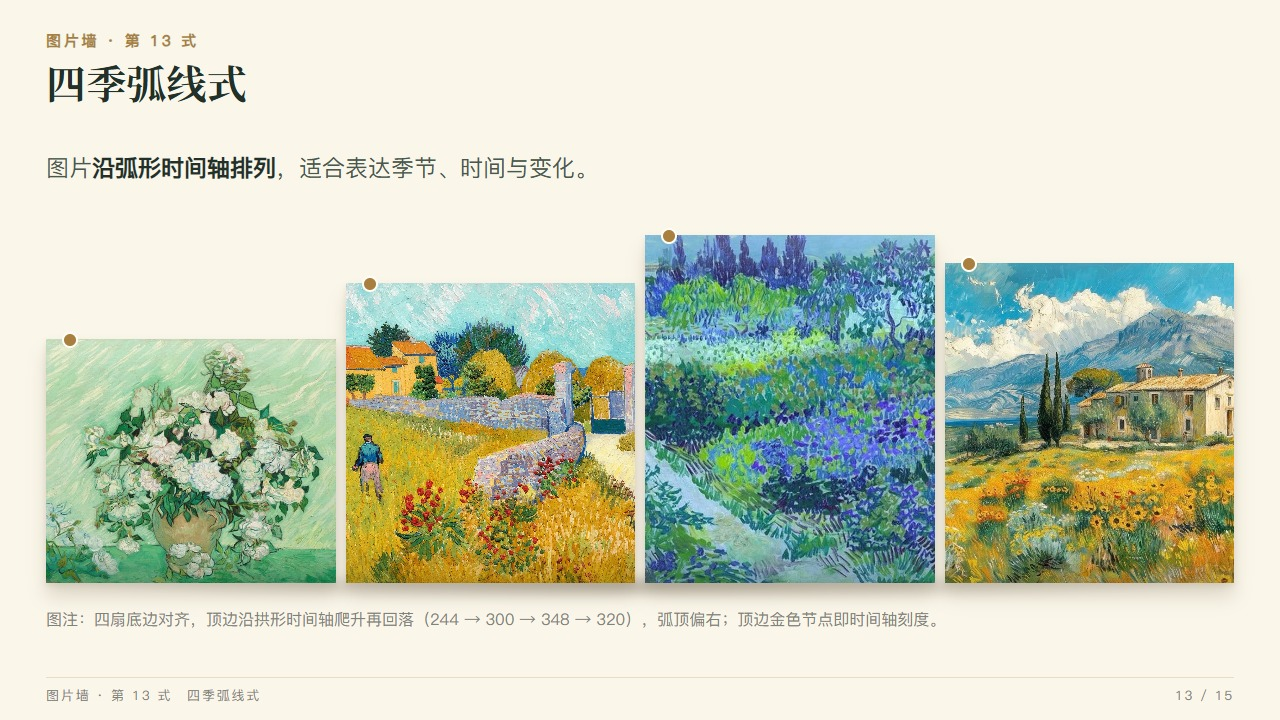
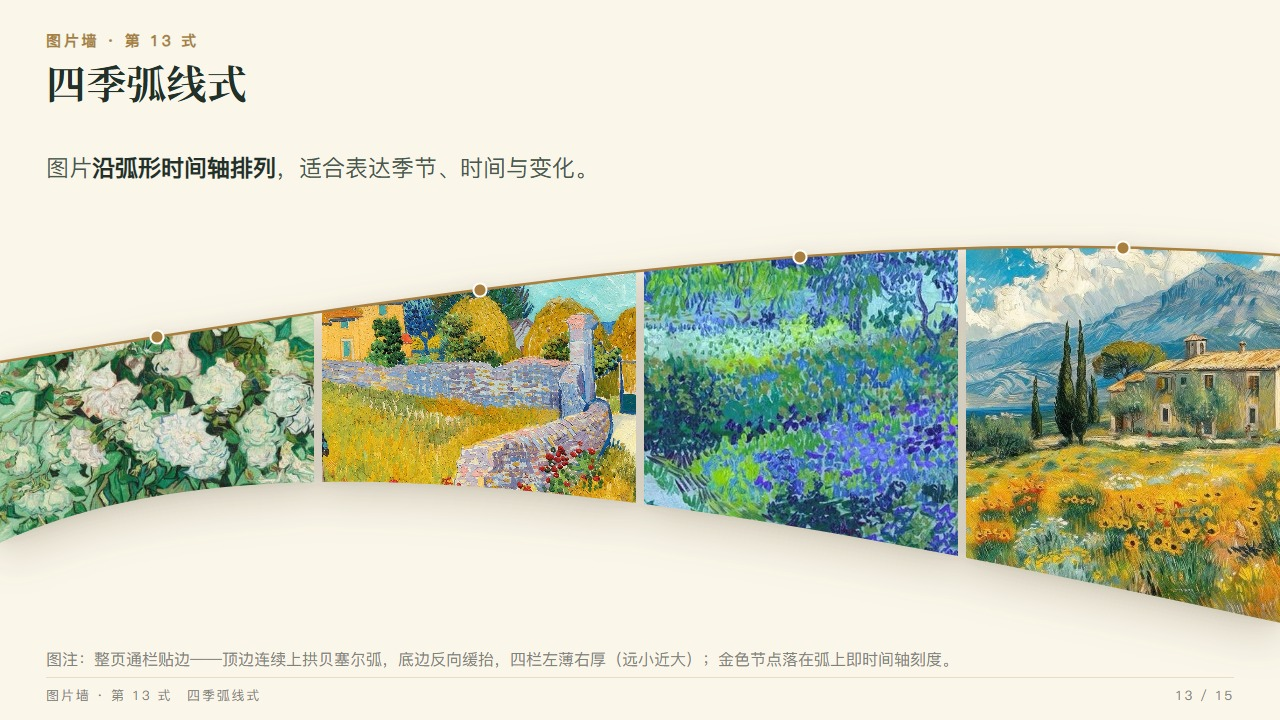
rice-paper-ppt 1.11.1：13 四季弧线式按参考图重做——四扇台阶高度废弃，改为整页通栏左右贴边 + 整面一条 clip-path:path() 贝塞尔弧（顶边连续上拱左低右高、底边反向缓抬），四栏左薄右厚远小近大；金弧线+四节点 svg.axis 叠外层

diff --git a/rice-paper-ppt/assets/theme.css b/rice-paper-ppt/assets/theme.css
@@ -690,43 +690,37 @@ em { font-style: normal; font-weight: 700; color: var(--green); }
   filter: blur(4px); pointer-events: none;
 }
 
-/* ── 13 四季弧线式：四扇底边对齐，顶边沿拱形时间轴起伏，弧顶偏右、节点钉顶边 ──────────
-   与 12 峰谷天际线的分野：那一式对称压轴、靠深色主塔收束；这一式讲「时间」，
-   弧是单向行进的——从第 1 扇爬到第 3 扇顶点、第 4 扇缓缓回落，
-   顶点不放正中（放正中就退回 12 的对称骨架了）。
-   每扇顶边左上钉一枚哑光金节点（暖白描边），读成钉在弧形时间轴上的四帧。
-   高度表 244 → 300 → 348（峰）→ 320：爬升缓、回落更缓，才有「逐季而行」的方向感。 */
+/* ── 13 四季弧线式：整页通栏、左右贴边，一条贝塞尔弧裁出「远小近大」─────────────────
+   顶边是**一条连续弧线**（贝塞尔），不是四栏各自高度的台阶：
+   左端沉到 159 → 向右爬升 → 弧顶偏右（≈x 1160 处 y≈45）→ 右端 52 微落；
+   底边一条缓弧：右端满高 420、中段抬到 ≈291、左端 340。
+   两条弧合起来把四栏照片裁成左薄右厚（左厚 ≈ 右厚的 49%），读出
+   「从左侧远小、到右侧近大」的行进纵深——这是本式的骨架本体。
+   左右出血贴纸边（同 2 式波浪的负边距模式），path 按 1280×420 写死、宽度一变就错位；
+   裁切挂内层 .cin 的 path()，投影挂外层 .w-tarc 的 drop-shadow——
+   clip 会裁掉元素自身的影子；金色弧线与四枚节点用一层 svg.axis 叠在外层
+   （放 .cin 里会被 clip 裁一半），节点圆心正好落在顶弧上，即弧形时间轴的四格刻度。
+   与 12 峰谷天际线的分野：那式对称压轴靠深色主塔；这式弧顶偏右、单向行进讲时间。 */
 .w-tarc {
   position: relative;
-  display: flex; align-items: flex-end; gap: 10px;
-  width: 100%; height: 380px; background: none;
+  width: calc(100% + var(--pad-x) * 2); margin-left: calc(var(--pad-x) * -1);
+  height: 420px; background: none;
+  filter: drop-shadow(0 16px 20px rgba(74,58,34,.20)) drop-shadow(0 3px 6px rgba(74,58,34,.10));
 }
-.w-tarc .pc {
-  position: relative; flex: 1 1 0; min-width: 0;
-  box-shadow: 0 14px 18px rgba(74,58,34,.16), 0 3px 6px rgba(74,58,34,.10);
+.w-tarc .cin {
+  display: flex; gap: 8px; width: 100%; height: 100%;
+  clip-path: path("M0 159 C522 74 892 23 1280 52 L1280 420 C697 293 261 220 0 340 Z");
 }
-.w-tarc .pc img { width: 100%; height: 100%; object-fit: cover; display: block; }
-.w-tarc .pc:nth-child(1) { height: 244px; }
-.w-tarc .pc:nth-child(2) { height: 300px; }
-.w-tarc .pc:nth-child(3) { height: 348px; }
-.w-tarc .pc:nth-child(4) { height: 320px; }
-/* 时间节点 */
-.w-tarc .pc::before {
-  content: ""; position: absolute; top: -7px; left: 16px; width: 12px; height: 12px; z-index: 2;
-  border-radius: 50%; background: var(--gold); border: 2px solid #FFFDF6;
-}
-/* 受光：共用顶亮底暗；贴地影一条整影压在底边线上 */
-.w-tarc .pc::after {
+.w-tarc .cl { position: relative; flex: 1 1 0; min-width: 0; }
+.w-tarc .cl img { width: 100%; height: 100%; object-fit: cover; display: block; }
+/* 弧形时间轴：金色细线沿顶弧走，四枚金节点钉在弧线上（圆心即弧上的点） */
+.w-tarc .axis { position: absolute; inset: 0; width: 100%; height: 100%; pointer-events: none; }
+/* 受光随弧走：顶缘补亮、底缘压暗；::after 在 .cin 内，跟着同一条 path 裁 */
+.w-tarc .cin::after {
   content: ""; position: absolute; inset: 0; pointer-events: none;
   background:
-    linear-gradient(to bottom, rgba(255,251,238,.24) 0, rgba(255,251,238,0) 16%),
-    linear-gradient(to top, rgba(34,24,12,.20) 0, rgba(34,24,12,0) 14%);
-}
-.w-tarc::before {
-  content: ""; position: absolute; left: 1%; right: 1%; bottom: -16px; height: 26px;
-  background: radial-gradient(ellipse at 50% 50%,
-    rgba(52,38,20,.30) 0, rgba(52,38,20,.10) 48%, rgba(52,38,20,0) 74%);
-  filter: blur(4px); pointer-events: none;
+    linear-gradient(to bottom, rgba(255,251,238,.20) 0, rgba(255,251,238,0) 14%),
+    linear-gradient(to top, rgba(34,24,12,.22) 0, rgba(34,24,12,0) 12%);
 }
 
 /* ── 14 弧形内凹式：整面一条 path，上缘内凹、下缘反向拱起，中腰收拢两侧舒展 ──────────
@@ -849,10 +843,11 @@ em { font-style: normal; font-weight: 700; color: var(--green); }
   .slide.on .w-arc .ai:nth-child(5) { animation-delay: .28s; }
   .slide.on .w-sky .pc { animation: wallRise .6s cubic-bezier(.22,.75,.2,1) both; }
   .slide.on .w-sky .pc.pk { animation: wallRise .75s cubic-bezier(.22,.75,.2,1) both; animation-delay: .20s; }
-  .slide.on .w-tarc .pc { animation: wallRise .6s cubic-bezier(.22,.75,.2,1) both; }
-  .slide.on .w-tarc .pc:nth-child(2) { animation-delay: .07s; }
-  .slide.on .w-tarc .pc:nth-child(3) { animation-delay: .14s; }
-  .slide.on .w-tarc .pc:nth-child(4) { animation-delay: .21s; }
+  .slide.on .w-tarc .cl { animation: wallRise .6s cubic-bezier(.22,.75,.2,1) both; }
+  .slide.on .w-tarc .cl:nth-child(2) { animation-delay: .07s; }
+  .slide.on .w-tarc .cl:nth-child(3) { animation-delay: .14s; }
+  .slide.on .w-tarc .cl:nth-child(4) { animation-delay: .21s; }
+  .slide.on .w-tarc .axis { animation: wallFade .5s ease-out .28s both; }
   .slide.on .w-conc .cl { animation: wallRise .6s cubic-bezier(.22,.75,.2,1) both; }
   .slide.on .w-conc .cl:nth-child(2) { animation-delay: .08s; }
   .slide.on .w-conc .cl:nth-child(3) { animation-delay: .16s; }
@@ -868,7 +863,8 @@ em { font-style: normal; font-weight: 700; color: var(--green); }
 .fx-js .slide.on .w-fan img,
 .fx-js .slide.on .w-coil,
 .fx-js .slide.on .w-sky .pc,
-.fx-js .slide.on .w-tarc .pc,
+.fx-js .slide.on .w-tarc .cl,
+.fx-js .slide.on .w-tarc .axis,
 .fx-js .slide.on .w-conc .cl,
 .fx-js .slide.on .w-sec,
 .fx-js .slide.on .w-sec .sd img,

diff --git a/rice-paper-ppt/examples/wall-tarc.html b/rice-paper-ppt/examples/wall-tarc.html
@@ -11,11 +11,12 @@
   <div class="pbar"></div>
   <div id="deck">
 
-    <!-- 13 四季弧线式：四扇底边对齐（align-items:flex-end），顶边沿拱形时间轴起伏——
-         高度表 244 → 300 → 348（峰，偏右不放正中）→ 320，爬升缓、回落更缓。
-         每扇顶边左上一枚哑光金节点（暖白描边），读成钉在弧形时间轴上的四帧。
-         与 12 峰谷天际线的分野：那式对称压轴靠深色主塔，这式单向行进讲时间。
-         动画：四扇沿时间轴从左到右逐扇浮起。 -->
+    <!-- 13 四季弧线式：整页通栏、左右贴边出血——一条贝塞尔弧裁出「远小近大」：
+         顶边一条连续上拱弧线（左端沉 159 → 弧顶偏右 y≈45 → 右端 52 微落），
+         底边一条缓弧（右端满高 420、中段抬 ≈291、左端 340），
+         四栏照片被裁成左薄右厚（左厚 ≈ 右厚的 49%）——左侧远小、右侧近大。
+         金色弧线 + 四枚节点叠在外层 svg.axis（viewBox 1280×420），圆心落在顶弧上。
+         动画：四栏沿弧从左到右逐栏浮起，时间轴最后淡入。 -->
     <section class="slide on">
       <div class="sh">
         <div class="kick">图片墙 · 第 13 式</div>
@@ -24,12 +25,21 @@
       <div class="sb">
         <p class="lead">图片<b>沿弧形时间轴排列</b>，适合表达季节、时间与变化。</p>
         <div class="wall w-tarc">
-          <div class="pc"><img src="img/vg6.jpg" alt=""></div>
-          <div class="pc"><img src="img/vg2.jpg" alt=""></div>
-          <div class="pc"><img src="img/vg3.jpg" alt=""></div>
-          <div class="pc"><img src="img/vg5.jpg" alt=""></div>
+          <div class="cin">
+            <div class="cl"><img src="img/vg6.jpg" alt=""></div>
+            <div class="cl"><img src="img/vg2.jpg" alt=""></div>
+            <div class="cl"><img src="img/vg3.jpg" alt=""></div>
+            <div class="cl"><img src="img/vg5.jpg" alt=""></div>
+          </div>
+          <svg class="axis" viewBox="0 0 1280 420" preserveAspectRatio="none" aria-hidden="true">
+            <path d="M0 159 C522 74 892 23 1280 52" fill="none" stroke="#A87F3F" stroke-width="2.5"/>
+            <circle cx="157" cy="134" r="6.5" fill="#A87F3F" stroke="#FFFDF6" stroke-width="2"/>
+            <circle cx="480" cy="87" r="6.5" fill="#A87F3F" stroke="#FFFDF6" stroke-width="2"/>
+            <circle cx="800" cy="54" r="6.5" fill="#A87F3F" stroke="#FFFDF6" stroke-width="2"/>
+            <circle cx="1123" cy="45" r="6.5" fill="#A87F3F" stroke="#FFFDF6" stroke-width="2"/>
+          </svg>
         </div>
-        <div class="figcap">图注：四扇底边对齐，顶边沿拱形时间轴爬升再回落（244 → 300 → 348 → 320），弧顶偏右；顶边金色节点即时间轴刻度。</div>
+        <div class="figcap">图注：整页通栏贴边——顶边连续上拱贝塞尔弧，底边反向缓抬，四栏左薄右厚（远小近大）；金色节点落在弧上即时间轴刻度。</div>
       </div>
       <div class="foot"><span>图片墙 · 第 13 式　四季弧线式</span><span>13 / 15</span></div>
     </section>

diff --git a/rice-paper-ppt/SKILL.md b/rice-paper-ppt/SKILL.md
@@ -1,7 +1,7 @@
 ---
 name: rice-paper-ppt
-version: 1.11.0
-description: 制作或改版「米纸质感」风格的 HTML 幻灯片时使用：1280×720 单页文件式 deck，暖米纸底 + 深林绿 + 哑光金的中式编辑版式，衬线大标题、投影级字号（正文不低于 20px，表格/代码不低于 18px），自带 theme.css 版式系统、6 页可运行骨架、十五种版式配方（含多图排版的图片墙十五式：1 齐边错落式 / 2 波浪贯通式 / 3 纵深渐进式 / 4 不对称叶片式 / 5 螺旋长卷式——内联 SVG 逐块裁形填图，整页通栏与内容页两种落位 / 6 半圆扇面式——扇骨即放射接缝 / 7 弧形切幅式——上缘左低右高单向抬起 / 8 矩阵网格式——5×3 十五格卷成圆柱面（棱柱面法：translateZ(-R) rotateY(φ) translateZ(R)，五列叠容器中点） / 9 折页长卷式与 10–11 弧幕连屏式（外弧、内弧）——共边梯形不用逐片旋转 / 12 峰谷天际线式——九扇底边对齐、高度对称起伏成峰谷，正中一扇深色主塔拔起压轴（.pk 压暗做全页锚点） / 13 四季弧线式——四扇底边对齐沿拱形时间轴爬升回落、顶边金色节点即时间轴刻度 / 14 弧形内凹式——上下缘反向弧线、中腰收拢两侧舒展 / 15 斜切折页式——六扇竖幅底边两段斜切向中央折脊收拢、中脊下漏斗托图注，曲线用 clip-path path、纵深用 perspective+rotateY、立体靠暖白拼缝、沿轮廓投影与受光差，2 / 4 的曲线按参考图逐列量得再转贝塞尔，4 左端下缘单调收束不留尖钩）、可选增强层 fx.js（无 GSAP 时自动退回纯 CSS，有 GSAP 时接管编排，并留出 WebGL / Canvas 的注册接口）与 Playwright 逐页版式审计脚本；视觉与文案双层规范、文案分语言与信息结构两份：版式层固定页码「当前/总页」、章节首页徽记（印章圆环 + 单色线稿）、视频暂停与进度条控件，文案层按 copywriting-spec.md 约束标题、句式、术语与标点，按 content-structure-spec.md 约束专业术语提炼、信息层级重构、内容压缩、章节封面定位与信息可视化，消除机械化对比句式、口语化引导语、模糊代称和空泛营销表达。适用于汇报、路演、方案宣讲、培训、分享会、文化展陈、课程等任何需要大屏投影且讲究纸感的场合，也适用于把已有同类 HTML 幻灯片按这套规范重构（放大字号、消除空旷、修溢出、重排层级、规范文案语言、给一组图排成整墙）；图片个数一维另有一张速查表——一页放几张图就查 references/image-count-layouts.md（1–10 张与超多图各有首选骨架与适配主题，与十五式「关系母题」互相校验）。触发词：米纸风 PPT、中式学术风幻灯片、纸感 deck、把这份 PPT 改成米纸风格、HTML 幻灯片改版、放大字号、排得专业点、PPT 文案规范化、PPT 文案精炼、信息结构化、专业术语提炼、去掉模糊代称、章节封面精简、多图排版、几张图怎么排、一张图 / 两张图 / N 张图怎么排、这个数量怎么摆、图片墙、图片错落排布、去掉 AI 味。
+version: 1.11.1
+description: 制作或改版「米纸质感」风格的 HTML 幻灯片时使用：1280×720 单页文件式 deck，暖米纸底 + 深林绿 + 哑光金的中式编辑版式，衬线大标题、投影级字号（正文不低于 20px，表格/代码不低于 18px），自带 theme.css 版式系统、6 页可运行骨架、十五种版式配方（含多图排版的图片墙十五式：1 齐边错落式 / 2 波浪贯通式 / 3 纵深渐进式 / 4 不对称叶片式 / 5 螺旋长卷式——内联 SVG 逐块裁形填图，整页通栏与内容页两种落位 / 6 半圆扇面式——扇骨即放射接缝 / 7 弧形切幅式——上缘左低右高单向抬起 / 8 矩阵网格式——5×3 十五格卷成圆柱面（棱柱面法：translateZ(-R) rotateY(φ) translateZ(R)，五列叠容器中点） / 9 折页长卷式与 10–11 弧幕连屏式（外弧、内弧）——共边梯形不用逐片旋转 / 12 峰谷天际线式——九扇底边对齐、高度对称起伏成峰谷，正中一扇深色主塔拔起压轴（.pk 压暗做全页锚点） / 13 四季弧线式——整页通栏左右贴边，整面一条贝塞尔弧裁出「远小近大」：顶边连续上拱左低右高、底边反向缓抬、四栏左薄右厚，金节点落在弧线上即时间轴刻度 / 14 弧形内凹式——上下缘反向弧线、中腰收拢两侧舒展 / 15 斜切折页式——六扇竖幅底边两段斜切向中央折脊收拢、中脊下漏斗托图注，曲线用 clip-path path、纵深用 perspective+rotateY、立体靠暖白拼缝、沿轮廓投影与受光差，2 / 4 的曲线按参考图逐列量得再转贝塞尔，4 左端下缘单调收束不留尖钩）、可选增强层 fx.js（无 GSAP 时自动退回纯 CSS，有 GSAP 时接管编排，并留出 WebGL / Canvas 的注册接口）与 Playwright 逐页版式审计脚本；视觉与文案双层规范、文案分语言与信息结构两份：版式层固定页码「当前/总页」、章节首页徽记（印章圆环 + 单色线稿）、视频暂停与进度条控件，文案层按 copywriting-spec.md 约束标题、句式、术语与标点，按 content-structure-spec.md 约束专业术语提炼、信息层级重构、内容压缩、章节封面定位与信息可视化，消除机械化对比句式、口语化引导语、模糊代称和空泛营销表达。适用于汇报、路演、方案宣讲、培训、分享会、文化展陈、课程等任何需要大屏投影且讲究纸感的场合，也适用于把已有同类 HTML 幻灯片按这套规范重构（放大字号、消除空旷、修溢出、重排层级、规范文案语言、给一组图排成整墙）；图片个数一维另有一张速查表——一页放几张图就查 references/image-count-layouts.md（1–10 张与超多图各有首选骨架与适配主题，与十五式「关系母题」互相校验）。触发词：米纸风 PPT、中式学术风幻灯片、纸感 deck、把这份 PPT 改成米纸风格、HTML 幻灯片改版、放大字号、排得专业点、PPT 文案规范化、PPT 文案精炼、信息结构化、专业术语提炼、去掉模糊代称、章节封面精简、多图排版、几张图怎么排、一张图 / 两张图 / N 张图怎么排、这个数量怎么摆、图片墙、图片错落排布、去掉 AI 味。
 license: MIT
 ---
 
@@ -113,7 +113,7 @@ cp -r rice-paper-ppt ~/.claude/skills/
 | 分部分 | 章节分隔（深绿章板） | 底色加重 + 超大编号 + 大标题 + 3 条要点 + 一句格言 + **本章徽记** |
 | 讲一个案例 | 图文分栏 | 图占 45–65%，文字只留 3 条结论 |
 | 两案对照 | 双栏并列 | 等宽两列 + 一条 `.bar` 收束 |
-| 并置一组图 | 图片墙十五式 + 个数速查表 | 十五式按关系定母题：1 齐边错落（4–5 张）/ 2 波浪贯通（4）/ 3 纵深渐进（8）/ 4 不对称叶片（4–5）/ 5 螺旋长卷（7 块，通栏与内容页两种落位）/ 6 半圆扇面（4）/ 7 弧形切幅（4）/ 8 矩阵网格（5×3 十五格圆柱面）/ 9 折页长卷（4）/ 10–11 弧幕连屏（4–5，外弧内弧）/ 12 峰谷天际线（9 扇，主塔压轴）/ 13 四季弧线（4 扇，时间轴）/ 14 弧形内凹（3 栏，双向弧）/ 15 斜切折页（6 幅，中脊漏斗）；1–3 张与超 10 张不在其区间，按 `references/image-count-layouts.md` 的个数骨架排。文字只留一条标题带。各式 16:9 整页实拍 `examples/wall-stagger|wave|depth|fan|coil|sec|crest|grid|fold|arc|arc-inner|sky|tarc|conc|tilt.jpg` |
+| 并置一组图 | 图片墙十五式 + 个数速查表 | 十五式按关系定母题：1 齐边错落（4–5 张）/ 2 波浪贯通（4）/ 3 纵深渐进（8）/ 4 不对称叶片（4–5）/ 5 螺旋长卷（7 块，通栏与内容页两种落位）/ 6 半圆扇面（4）/ 7 弧形切幅（4）/ 8 矩阵网格（5×3 十五格圆柱面）/ 9 折页长卷（4）/ 10–11 弧幕连屏（4–5，外弧内弧）/ 12 峰谷天际线（9 扇，主塔压轴）/ 13 四季弧线（4 栏，贝塞尔弧时间轴）/ 14 弧形内凹（3 栏，双向弧）/ 15 斜切折页（6 幅，中脊漏斗）；1–3 张与超 10 张不在其区间，按 `references/image-count-layouts.md` 的个数骨架排。文字只留一条标题带。各式 16:9 整页实拍 `examples/wall-stagger|wave|depth|fan|coil|sec|crest|grid|fold|arc|arc-inner|sky|tarc|conc|tilt.jpg` |
 | 比参数 / 比方案 | 表格 | 4–7 行；7 行以上用 `.tbl.tight` |
 | 展示一段原文 | 引文框 | `pbox` + 结果图 + 高亮本次新增部分 |
 | 讲步骤 | 横向流程 | 4 节点 + 旁注 + `.bar` |

diff --git a/rice-paper-ppt/references/page-patterns.md b/rice-paper-ppt/references/page-patterns.md
@@ -205,7 +205,7 @@ SVG 的 presentation attribute 不吃 `var()`，所以别在图标里写 `var(--
 | 10 弧幕连屏式 | 竖幅沿外弧连续排列，端片放大 | 环幕、连续、包围 | 4–5 | 左右出血 15px | 图下居中标题带 |
 | 11 弧幕连屏式（内弧） | 同 10 反向，中段鼓起 | 聚焦、收拢 | 4 | 同 10 | 同 10 |
 | 12 峰谷天际线式 | 九扇底边对齐，高度对称起伏，主塔压暗压轴 | 压轴、锚点、收束 | 9（7–9） | 内容区内居中 | 图上导语 + 图下一行图注 |
-| 13 四季弧线式 | 四扇底边对齐，顶边沿拱形时间轴爬升回落、顶边金节点 | 时间、季节、行进 | 4 | 内容区内，四扇等宽 | 图下居中标题带 |
+| 13 四季弧线式 | 整面贝塞尔弧：顶边连续上拱左低右高、底边反向缓抬，四栏左薄右厚（远小近大）、金节点钉弧线 | 时间、季节、行进 | 4 | 内容区内，四栏等宽 | 图下居中标题带 |
 | 14 弧形内凹式 | 上缘内凹下沉、下缘反向拱起，中腰收拢 | 柔和收放、层次、分栏 | 3（3–5 栏） | 内容区内，三栏等宽 | 图下居中标题带 |
 | 15 斜切折页式 | 六扇竖幅底边两段斜切向中央折脊收拢，中脊下漏斗托图注 | 展开、收拢、聚焦 | 6 | 内容区内 | 图注坐漏斗中 |
 
@@ -499,15 +499,21 @@ SVG 的 presentation attribute 不吃 `var()`，所以别在图标里写 `var(--
 > 图片沿弧形时间轴排列，适合表达季节、时间与变化。
 
 
-**四扇底边对齐，顶边沿拱形时间轴爬升再回落，弧顶偏右；每扇顶边一枚金色节点即时间轴刻度。**
+**整面一条 `clip-path: path()` 贝塞尔弧裁出「远小近大」：顶边一条连续上拱弧线，底边一条反向缓弧，四栏被裁成左薄右厚。**
 
-- **与 12 峰谷天际线的分野**：那一式对称压轴、靠深色主塔收束；这一式讲「时间」，
-  弧是单向行进的——顶点放在第 3 扇、不放正中，放正中就退回 12 的对称骨架。
-- 高度表 244 → 300 → 348（峰）→ 320：爬升缓、回落更缓，才有「逐季而行」的方向感；
-  换扇数按「缓升—顶点—缓降」重排，别把顶点挪回中央。
-- 节点圆点（`var(--gold)`、暖白 2px 描边）钉在各扇顶边左上、`top:-7px` 骑在边上；
-  扇数变了节点跟着走，漏了节点就只剩「高矮不一的四张图」。
-- 底边对齐 `align-items: flex-end`、等宽 `flex: 1 1 0`、缝 10px；贴地影一条整影（平铺无裁切可用伪元素）。
+- **顶边是一条连续弧线、不是台阶**：左端沉（y 159）→ 向右爬升 → 弧顶偏右（≈x 940 处 y≈45）
+  → 右端微落（52）。四栏各自独立高度拼出来的是折线台阶，读不出「弧」——必须整面一条 path。
+- **底边反向缓弧**：右端满高 420、中段抬到 ≈291、左端 340。两条弧合起来，
+  照片可见厚度左 ≈181、右 ≈368（左约为右的 49%）——「从左侧远小、到右侧近大」的行进纵深。
+- **整页通栏、左右贴边**（同 2 式波浪的负边距模式：`width: calc(100% + var(--pad-x)*2);
+  margin-left: calc(var(--pad-x)*-1)`），path 按 1280×420 写死、宽度一变就错位。
+- 结构与 14 式同族：裁切挂内层 `.cin` 的 path()，
+  投影挂外层 `.w-tarc` 的 `drop-shadow`——clip 会裁掉元素自身的影子；
+  `::after` 写在 `.cin` 里跟着同一条 path 裁。
+- **弧形时间轴与节点**：金色细线沿顶弧走 + 四枚金节点（暖白 2px 描边），
+  叠在外层 `svg.axis`（viewBox 1280×420；放 `.cin` 里会被 clip 裁一半），节点圆心正好落在顶弧上；
+  栏数变了节点跟弧线重算，漏了节点就只剩「左薄右厚的四张图」。
+- 四栏等宽 `flex: 1 1 0`、缝 8px；白缝随弧线贯通。
 - 用于季度复盘、历程回顾、时间线叙事：四帧之间要有先后语义，纯并列内容用 1 式。
 
 ### 14 弧形内凹式
@@ -541,7 +547,7 @@ SVG 的 presentation attribute 不吃 `var()`，所以别在图标里写 `var(--
 
 ### 十五式通用规则
 
-1. **图数**：1 取 4–5、2 取 4、3 取 8、4 取 4–5、5 取 7 块（5–7 张图，不够就相邻重复）、6 取 4 片、7 取 4 张、8 取 15 格（5×3，图不够相邻重复）、9 取 4 片、10 / 11 取 4–5 片、12 取 9 扇（7–9，高度表按对称重排）、13 取 4 扇（顶点偏右）、14 取 3 栏（3–5）、15 取 6 幅（中脊居中）。三张以下与十张以上不在十五式的覆盖区间——按**个数速查表**（`image-count-layouts.md`）的骨架排：1–3 张走大图独占 / 对分 / 竖塔三叠，超 10 张走矩阵网格或拆页（`.tbl` 索引加两张代表图）。
+1. **图数**：1 取 4–5、2 取 4、3 取 8、4 取 4–5、5 取 7 块（5–7 张图，不够就相邻重复）、6 取 4 片、7 取 4 张、8 取 15 格（5×3，图不够相邻重复）、9 取 4 片、10 / 11 取 4–5 片、12 取 9 扇（7–9，高度表按对称重排）、13 取 4 栏（顶弧偏右）、14 取 3 栏（3–5）、15 取 6 幅（中脊居中）。三张以下与十张以上不在十五式的覆盖区间——按**个数速查表**（`image-count-layouts.md`）的骨架排：1–3 张走大图独占 / 对分 / 竖塔三叠，超 10 张走矩阵网格或拆页（`.tbl` 索引加两张代表图）。
 2. **等权**：所有图等宽等高、缝 3px 白纸色，外轮廓只由容器遮罩决定（4 也不再逐张改高度），
    不加各自的圆角、边框。
 3. **允许 `cover` 的唯一场景**：同题材并置、单张不承担唯一证据。人物面部、图内文字、关键细节

diff --git a/rice-paper-ppt/README.md b/rice-paper-ppt/README.md
@@ -32,8 +32,7 @@ serif display type, projection-scaled typography, a writing-style spec, and a Pl
   半圆扇面式讲聚拢（6，扇骨即放射接缝）、弧形切幅式讲延伸（7，上缘一条弧左低右高）、
   矩阵网格式讲秩序（8，5×3 十五格卷成圆柱面）、折页长卷式讲折页展开（9，四片共边梯形）、
   弧幕连屏式讲环幕（10，内弧 11 反向聚焦中央）、峰谷天际线式讲压轴（12，九扇底边对齐、
-  高度对称起伏、正中深色主塔拔起）、四季弧线式讲时间（13，四扇底边对齐沿拱形时间轴爬升回落、
-  顶边金色节点）、弧形内凹式讲柔和收放（14，上下缘反向弧线、中腰收拢两侧舒展）、斜切折页式讲展开（15，六扇竖幅底边两段斜切向中央折脊收拢、中脊下漏斗托图注）。墙内等宽白缝、不逐图配卡；立体感来自暖白拼缝、
+  高度对称起伏、正中深色主塔拔起）、四季弧线式讲时间（13，整面贝塞尔弧裁出左薄右厚、远小近大、顶弧金节点）、弧形内凹式讲柔和收放（14，上下缘反向弧线、中腰收拢两侧舒展）、斜切折页式讲展开（15，六扇竖幅底边两段斜切向中央折脊收拢、中脊下漏斗托图注）。墙内等宽白缝、不逐图配卡；立体感来自暖白拼缝、
   沿轮廓投影、边缘顶亮底暗与尺寸错落，不用发光和玻璃。`theme.css` 已内置十五式、标题带与 0.7s 入场动画，
   十五式的实拍、单格尺寸与横图裁切顺序见下文「图片墙十五式」。
 - **按图片个数选骨架**：十五式按「内容关系」定母题，个数是另一维——
@@ -138,7 +137,7 @@ serif display type, projection-scaled typography, a writing-style spec, and a Pl
 
 **13 四季弧线式** — 图片沿弧形时间轴排列，适合表达季节、时间与变化。
 
-<p align="center"><img src="examples/wall-tarc.jpg" width="760" alt="13 四季弧线式：四扇底边对齐，顶边沿拱形时间轴爬升回落（244→300→348→320，弧顶偏右），顶边金色节点即时间轴刻度" /></p>
+<p align="center"><img src="examples/wall-tarc.jpg" width="760" alt="13 四季弧线式：整页通栏贴边——顶边连续上拱贝塞尔弧（左沉→弧顶偏右→右端微落），底边反向缓抬，四栏左薄右厚（远小近大），金色节点落在弧线上即时间轴刻度" /></p>
 
 **14 弧形内凹式** — 图片顶部与底部形成相反方向的弧形曲线，整体呈现中间收拢、两侧舒展的视觉效果，搭配多图分栏，营造柔和的空间层次。
 
@@ -162,7 +161,7 @@ serif display type, projection-scaled typography, a writing-style spec, and a Pl
 | **10 弧幕连屏式** | 竖幅沿外弧连续排列，端片放大 | 环幕、连续、包围 | 4–5 | ≈320×404 | 51% |
 | **11 弧幕连屏式（内弧）** | 同 10，弧向反转、中段鼓起 | 聚焦、收拢 | 4 | 同 10 | 51% |
 | **12 峰谷天际线式** | 九扇底边对齐，高度对称起伏，主塔压暗压轴 | 压轴、锚点、收束 | 9（7–9） | 端塔 300 → 谷 158–198，主塔满高 380 | 几乎不裁（竖幅 1:1.4–2.7） |
-| **13 四季弧线式** | 四扇底边对齐，顶边沿拱形时间轴爬升回落、顶边金节点 | 时间、季节、行进 | 4 | ≈287×244–348（等宽） | 几乎不裁（竖幅） |
+| **13 四季弧线式** | 整页通栏贴边，整面贝塞尔弧：顶边连续上拱左低右高、底边反向缓抬，四栏左薄右厚（远小近大） | 时间、季节、行进 | 4 | ≈314×181–368（左薄右厚） | 裁切多（左右端各按弧收） |
 | **14 弧形内凹式** | 上缘内凹下沉、下缘反向拱起，中腰收拢 | 柔和收放、层次、分栏 | 3（3–5 栏） | ≈387×350（端栏）/≈387×242（中栏） | 端栏几乎不裁，中栏上下各收约三成 |
 | **15 斜切折页式** | 六扇竖幅顶边对齐，底边两段斜切向中央折脊收拢，中脊下漏斗托图注 | 展开、收拢、聚焦 | 6 | ≈185×310（六扇等宽，中脊 30px） | 竖幅优先（横图裁切约五成） |
 

diff --git a/rice-paper-ppt/references/components.md b/rice-paper-ppt/references/components.md
@@ -320,13 +320,24 @@
   <div class="pc"><img src="assets/k1.jpg" alt=""></div>
 </div>
 
-<!-- 13 四季弧线式：四扇底边对齐，高度表 .w-tarc nth-child（244 → 300 → 348 峰 → 320，顶点偏右）；
-     每扇顶边左上一枚金色节点 ::before（骑边 top:-7px），漏了节点只剩高矮四张图 -->
+<!-- 13 四季弧线式：整页通栏贴边（.w-tarc 负边距出血），整面一条贝塞尔 path——
+     裁切挂内层 .cin（1280×420 坐标写死：顶弧左沉 159 → 弧顶偏右 ≈45 → 右端 52；
+     底弧右满 420 → 中抬 ≈291 → 左 340），四栏被裁成左薄右厚（远小近大）；
+     金弧线 + 四节点叠在外层 svg.axis（viewBox 1280×420，放 .cin 内会被裁） -->
 <div class="wall w-tarc">
-  <div class="pc"><img src="assets/l1.jpg" alt=""></div>
-  <div class="pc"><img src="assets/l2.jpg" alt=""></div>
-  <div class="pc"><img src="assets/l3.jpg" alt=""></div>
-  <div class="pc"><img src="assets/l4.jpg" alt=""></div>
+  <div class="cin">
+    <div class="cl"><img src="assets/l1.jpg" alt=""></div>
+    <div class="cl"><img src="assets/l2.jpg" alt=""></div>
+    <div class="cl"><img src="assets/l3.jpg" alt=""></div>
+    <div class="cl"><img src="assets/l4.jpg" alt=""></div>
+  </div>
+  <svg class="axis" viewBox="0 0 1280 420" preserveAspectRatio="none" aria-hidden="true">
+    <path d="M0 159 C522 74 892 23 1280 52" fill="none" stroke="#A87F3F" stroke-width="2.5"/>
+    <circle cx="157" cy="134" r="6.5" fill="#A87F3F" stroke="#FFFDF6" stroke-width="2"/>
+    <circle cx="480" cy="87" r="6.5" fill="#A87F3F" stroke="#FFFDF6" stroke-width="2"/>
+    <circle cx="800" cy="54" r="6.5" fill="#A87F3F" stroke="#FFFDF6" stroke-width="2"/>
+    <circle cx="1123" cy="45" r="6.5" fill="#A87F3F" stroke="#FFFDF6" stroke-width="2"/>
+  </svg>
 </div>
 
 <!-- 14 弧形内凹式：整面一条 path——裁切挂内层 .cin（1176×380 坐标写死），投影挂外层 .w-conc
